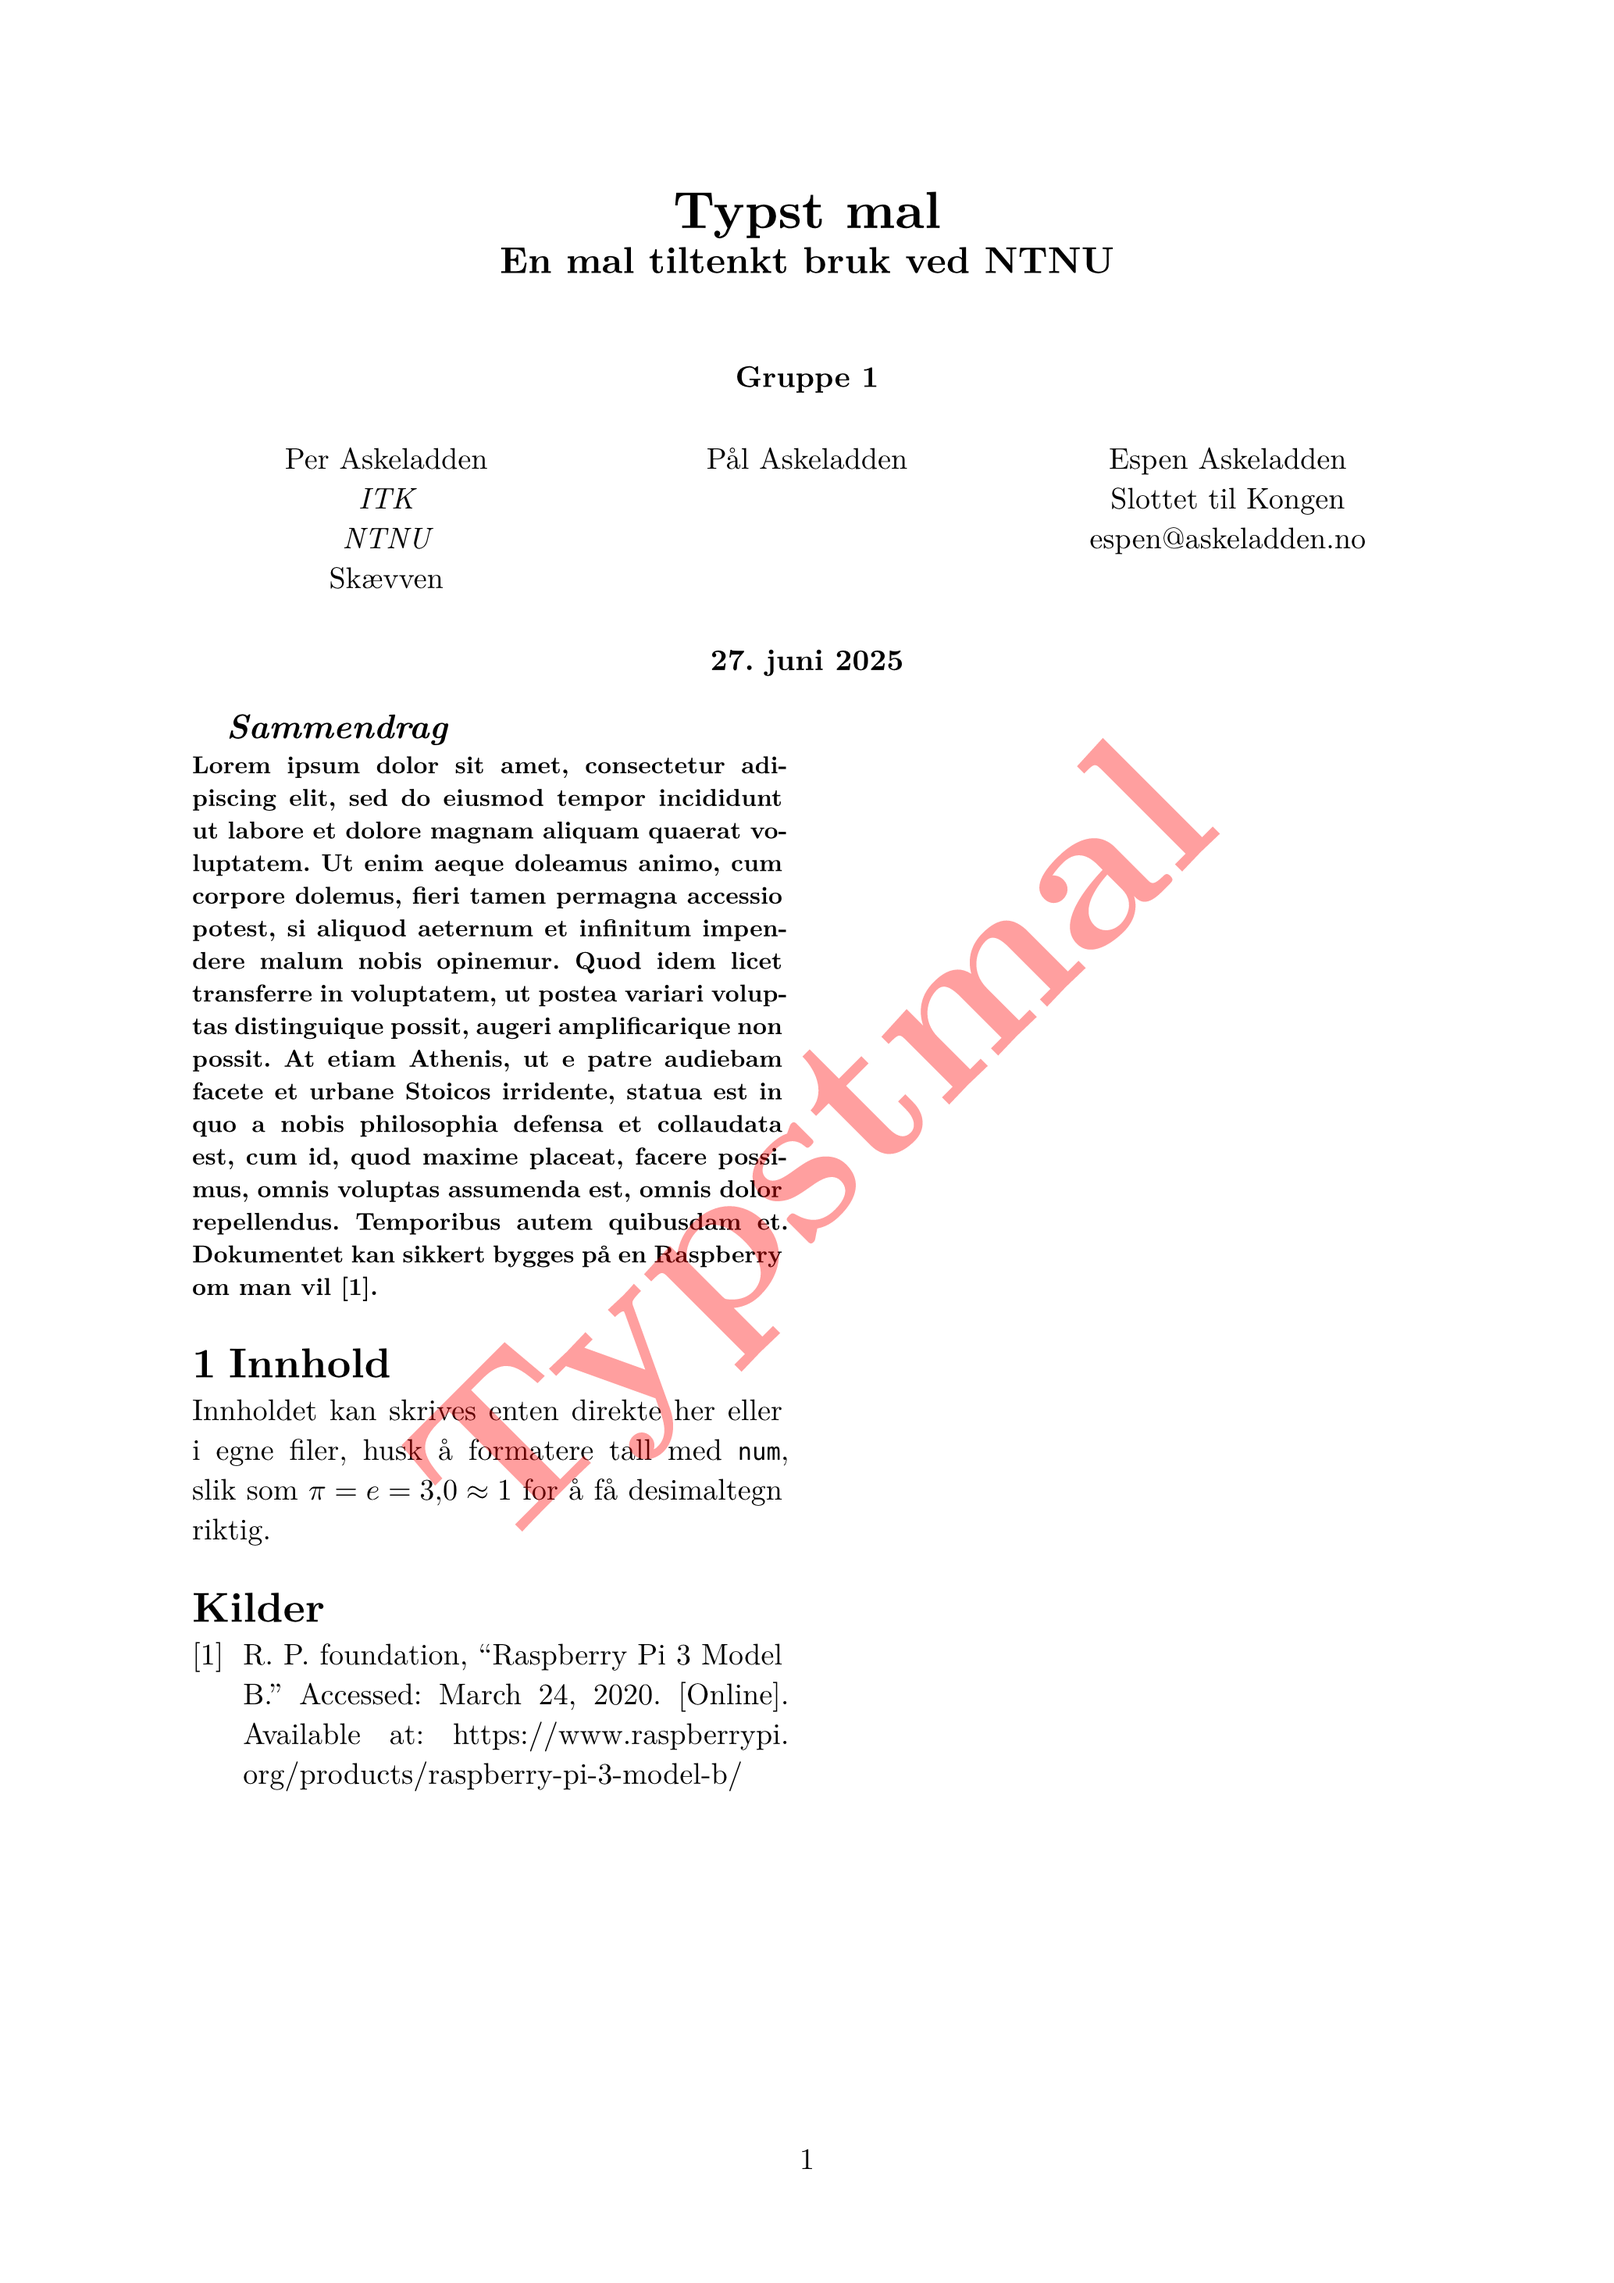
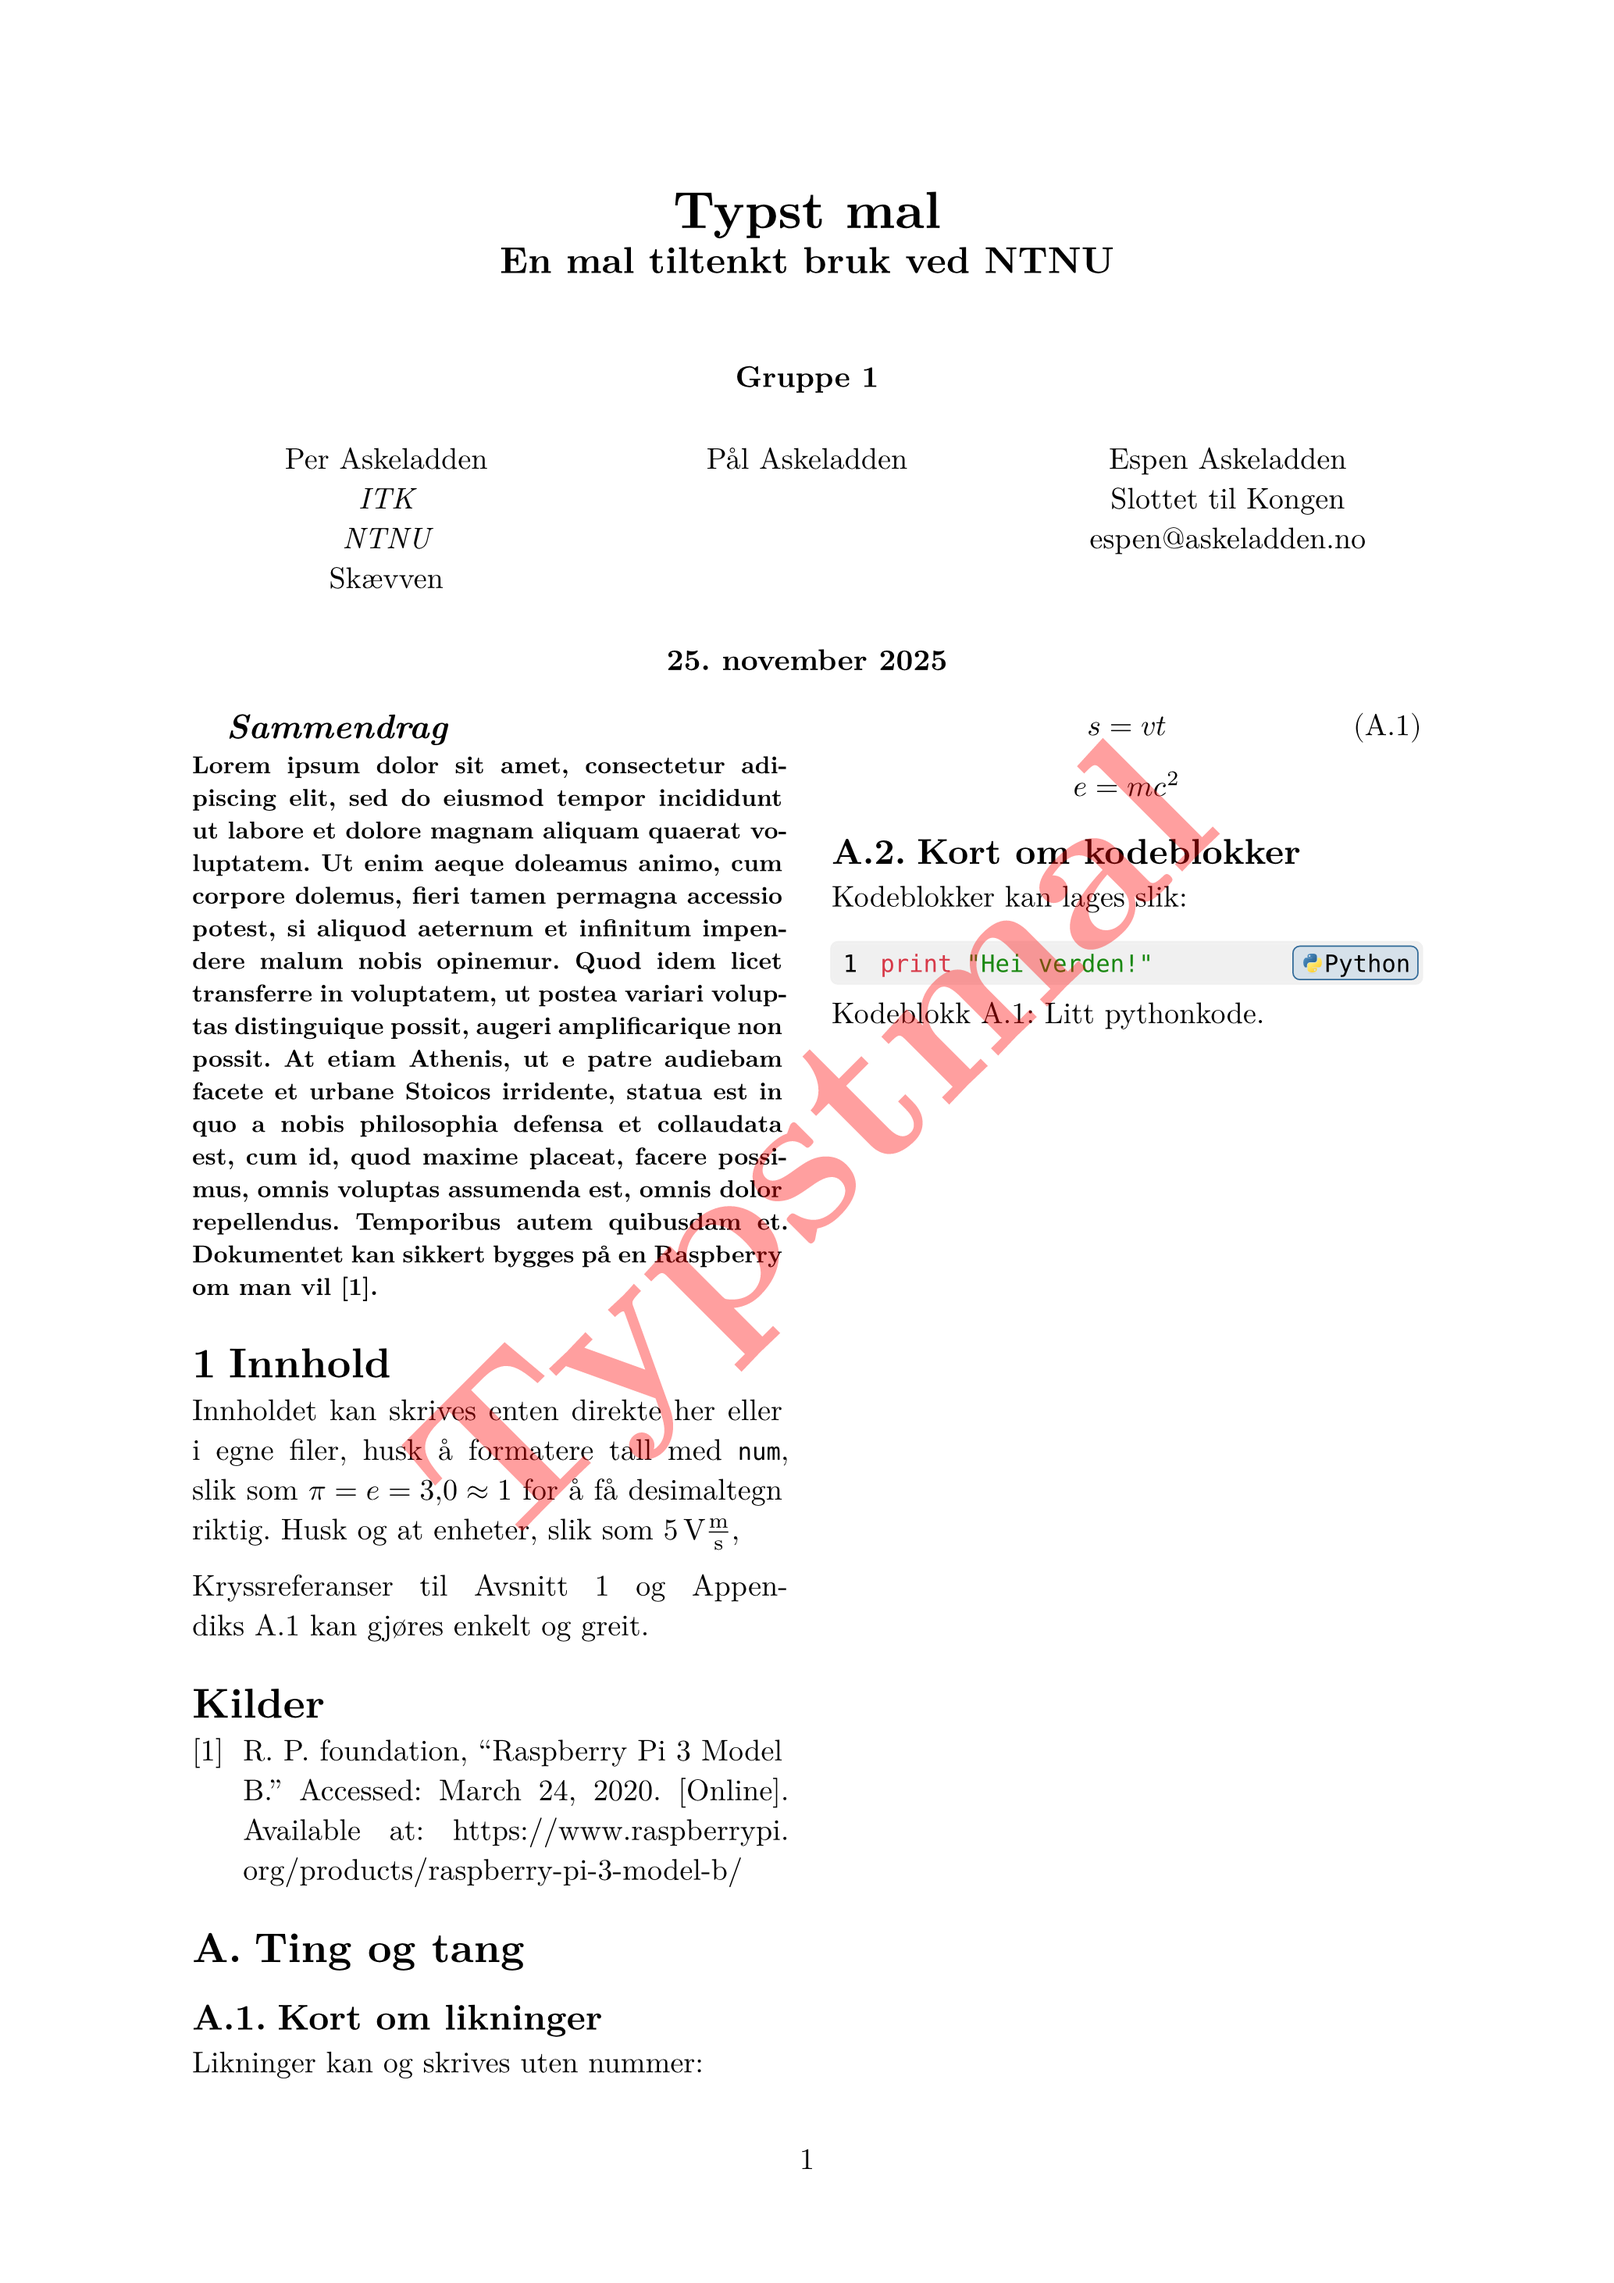
Updated the template for 2026.

diff --git a/README.md b/README.md
@@ -1,10 +1,10 @@
 # About
-This is a small template for writing reports tailored to the most common needs at NTNU in Norway.
-Note that many subjects have their own requirements for styling, this template is compatible with the requirements for TTK4101 in 2025.
+This is a small template for writing reports tailored to the most common needs at NTNU in Norway, the goal is to cover everything from exercises to specialization projects.
+Note that many subjects have their own requirements for styling, this template is compatible with the requirements for TTK4101 in 2025 and 2026.
 
 # Future plans
 - It would be neat to add an appendix system at some point.
-- I do not plan to expand the template to handle a full thesis, the "nifty-ntnu-thesis" seems to solve this already.
+- I do not plan to expand the template to handle a full master thesis, the "nifty-ntnu-thesis" seems to solve this already.
 
 # Configuration
 The template takes the following arguments:
@@ -17,20 +17,39 @@ The template takes the following arguments:
 - front-image: Optional image content for front page. Only works with long length.
 - date: Optional timestamp, will override the current date on the front page.
 - abstract: Optional content.
+- appendices: Optional content.
 - bibfile: Optional parsed bibfile on the form bibliography("path"), required for bibliography.
-- bibstyle: Optional string, defaults to "institute-of-electrical-and-electronics-engineers". Many subjects require "american-psychological-association"
+- bibstyle: Optional string, defaults to "institute-of-electrical-and-electronics-engineers". Many subjects require "american-psychological-association".
 - language: Optional string, defaults to "bokmål". One of english, bokmål or nynorsk.
 - column-number: Optional int, default 1.
-- show-toc: Optional bool, default true. Determines if table of content is printed, only relevant for long reports
-- show-figure-index: Optional bool, default false. Determines if list of figures is printed, only relevant for long reports
-- show-table-index: Optional bool, default false. Determines if list of indices is printed, only relevant for long reports
-
+- number-headings: Optional bool, default true. Determines if headings are numbered.
+- show-toc: Optional bool, default true. Determines if table of content is printed, only relevant for long reports.
+- show-figure-index: Optional bool, default false. Determines if list of figures is printed, only relevant for long reports.
+- show-table-index: Optional bool, default false. Determines if list of indices is printed, only relevant for long reports.
+- show-listings-index: Optional bool, default false. Determines if list of listings is printed, only relevant for long reports.
 
 # Quality of life
-The package supplies `<nonumber>`tag, headings tagged with this will not get a number. They still appear in the table of content.
+In adition to the template function, this package allso supplies the `un` function, which formats units propperly with a tiny space and no cursive in math mode.
+It is intentionally much more lightweight than packages such as **unify**.
 
-The package allso localizes number formats correctly, use the `num` function from the `zero` pacage imported wiht `#import "@preview/zero:0.3.3": num`.
+The package supplies `<nonumber>`tag, headings and equations tagged with this will not get a number. They still appear in the table of content.
+
+The package allso localizes number formats correctly, use the `num` function from the `zero` pacage imported wiht `#import "@preview/zero:0.5.0": num`.
+
+The codly and codly-languages packages are used to format listings in a nice and readable way.
+
+# Recommended packages
+There are a lot of useful features in other packages that are not reimplemented or preconfigured in this package, here are some recommendations that might be useful for NTNU students:
+- **subpar** is good for making subfigures, and should be compatible with this template.
+- **wordometer** counts words, but is not preconfigured here since the specifics often vary from subject to subject.
+- **meander** seams like a good package for non-standard layout requirements.
+- **cetz** is good for drawing custom graphics, and is used by packages like **alchemist**, **commute** and **finite**. Remember that many tasks are easily solved with paint.
+- **frame-it** creates nice frames for theorems, examples and similar.
+- **physica** and **pavemat** solves most missing features in math typesetting.
+
 
 # License
 The boiler plate template located in the template folder is licensed under the MIT No Attribution license, the rest of this project is licensed under the GNU Affero General Public License v3.0 or later.
+
 The logo of NTNU (located at template/figures/NTNU.svg) is owned by NTNU, guidelines for usage is located at https://i.ntnu.no/wiki/-/wiki/Norsk/Bruksregler+for+NTNU-logoen.
+The unoficcial logo for ITK at NTNU (located at template/figures/ITK_logo.svg) is owned by Trond Andresen and distributed with permission, more information can be found at https://www.ntnu.no/itk/om/historie/itk-60/jubileumsmotiv.
